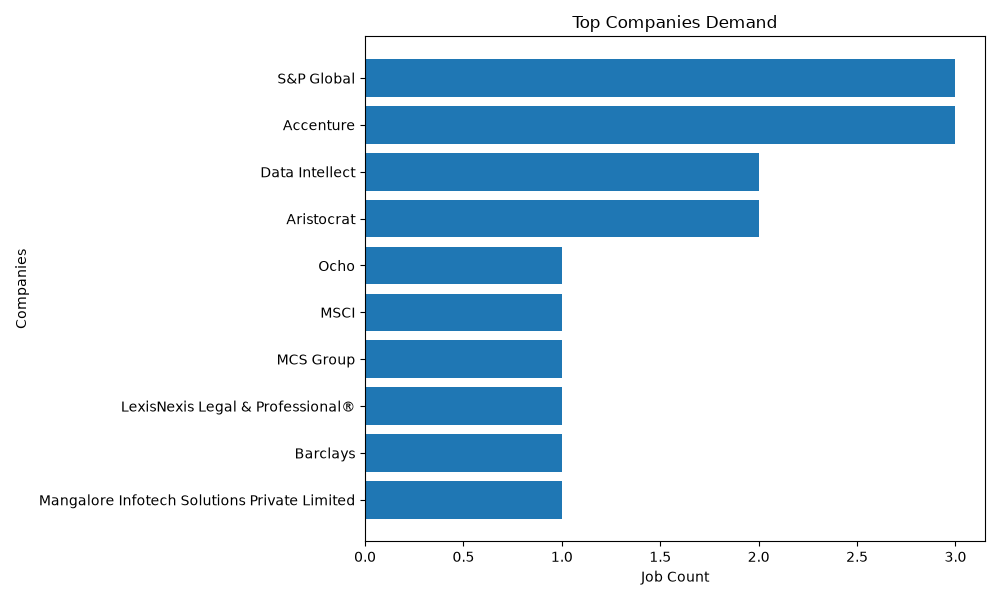
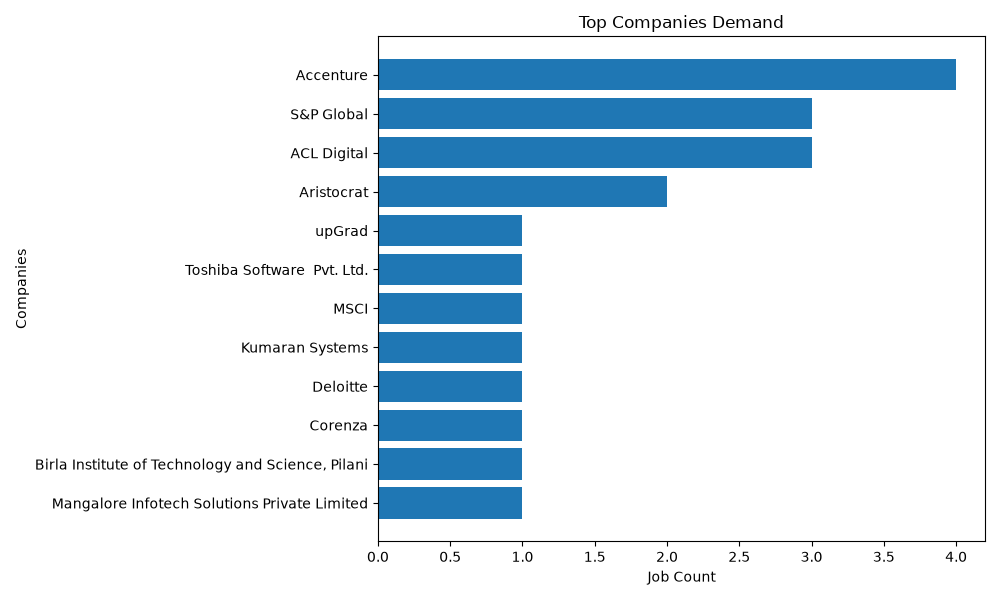
add documentation

diff --git a/src/analysis.py b/src/analysis.py
@@ -2,7 +2,16 @@ import csv
 import os
 
 def get_top_skills(connection):
+    """Retrieves the list of skills ordered by their frequency across jobs.
+
+    Args:
+        connection (sqlite3.Connection): An active database connection.
+
+    Returns:
+        list of tuple: A list of (skill, count) tuples representing skill frequency.
+    """
     cursor = connection.cursor()
+    # Group and count the occurances of each unique skill key
     cursor.execute("""
         SELECT skill, COUNT(*) FROM job_skills
         GROUP BY skill
@@ -13,6 +22,14 @@ def get_top_skills(connection):
     return result
 
 def count_jobs(connection):
+    """Counts the total number of job postings in the database.
+
+    Args:
+        connection (sqlite3.Connection): An active database connection.
+
+    Returns:
+        int: The total count of jobs.
+    """
     cursor = connection.cursor()
     cursor.execute("""
         SELECT COUNT(*)
@@ -23,6 +40,14 @@ def count_jobs(connection):
     return result
 
 def count_unique_skills(connection):
+    """Counts the number of distinct skills extracted across all job postings.
+
+    Args:
+        connection (sqlite3.Connection): An active database connection.
+
+    Returns:
+        int: The total count of unique skills.
+    """
     cursor = connection.cursor()
     cursor.execute("""
         SELECT COUNT(DISTINCT skill)
@@ -33,6 +58,15 @@ def count_unique_skills(connection):
     return result
 
 def get_jobs_by_skill(connection, skill):
+    """Retrieves all jobs that match a specific skill (case-insensitive search).
+
+    Args:
+        connection (sqlite3.Connection): An active database connection.
+        skill (str): The skill keyword to filter by.
+
+    Returns:
+        list of tuple: List of (title, company, location) matching the specified skill.
+    """
     cursor = connection.cursor()
     cursor.execute("""
         SELECT 
@@ -50,6 +84,14 @@ def get_jobs_by_skill(connection, skill):
     return result
 
 def get_top_companies(connection):
+    """Retrieves companies ordered by the number of job postings they have.
+
+    Args:
+        connection (sqlite3.Connection): An active database connection.
+
+    Returns:
+        list of tuple: A list of (company, count) tuples representing company hiring frequency.
+    """
     cursor = connection.cursor()
     cursor.execute("""
         SELECT company, COUNT(*)
@@ -63,12 +105,22 @@ def get_top_companies(connection):
     return result
 
 def export_to_csv(results, filename, header):
+    """Exports structured database query results to a CSV file.
+
+    Args:
+        results (list of tuple): The database rows/results to write.
+        filename (str): Target filename inside the 'results' directory.
+        header (list of str): List of column headers for the CSV file.
+    """
+    # Create the target results directory if it does not exist
     os.makedirs("results", exist_ok=True)
 
     with open(f"results/{filename}", "w", newline="", encoding="utf-8") as file:
         writer = csv.writer(file)
+        # Write column headers first
         writer.writerow(header)
 
+        # Write all data rows
         for row in results:
             writer.writerow(row)
         

diff --git a/src/fetcher.py b/src/fetcher.py
@@ -4,6 +4,19 @@ from dotenv  import load_dotenv
 
 load_dotenv()
 def build_request(keyword, country, results_per_page, page):
+    """Builds the request URL and query parameters for the Adzuna API.
+
+    Args:
+        keyword (str): The keyword to search for in job titles or descriptions.
+        country (str): The 2-letter country code (e.g., 'in').
+        results_per_page (int): The number of job results to return per page.
+        page (int): The page number of the search results to fetch.
+
+    Returns:
+        tuple: A tuple containing:
+            - base_url (str): The constructed API endpoint URL.
+            - query_params (dict): A dictionary of query parameters including API credentials.
+    """
     base_url = f"https://api.adzuna.com/v1/api/jobs/{country}/search/{page}"
     query_params = {
         "app_id" : os.getenv("APP_ID"),
@@ -15,11 +28,31 @@ def build_request(keyword, country, results_per_page, page):
     return base_url, query_params
 
 def send_request(base_url, query_params):
+    """Sends a GET request to the Adzuna API.
+
+    Args:
+        base_url (str): The API endpoint URL.
+        query_params (dict): The query parameters for the API request.
+
+    Returns:
+        requests.Response: The API response object.
+    """
     response = requests.get(url=base_url, params=query_params, timeout=10)
     response.raise_for_status()  
     return response
 
 def validate_response(response):
+    """Validates the API response structure and content.
+
+    Args:
+        response (requests.Response): The API response object to validate.
+
+    Returns:
+        list: A list of job results from the API response.
+
+    Raises:
+        Exception: If the API returned an error or if the 'results' field is missing.
+    """
     data = response.json()
 
     if "error" in data:
@@ -31,6 +64,17 @@ def validate_response(response):
     return data["results"]
 
 def fetch_jobs(keyword, country, results_per_page, page):
+    """Fetches and validates job postings from the Adzuna API.
+
+    Args:
+        keyword (str): The search term/keyword for jobs.
+        country (str): The 2-letter country code.
+        results_per_page (int): The number of job results to return per page.
+        page (int): The page number of search results to fetch.
+
+    Returns:
+        list: A list of validated job dictionaries.
+    """
     base_url, query_params = build_request(keyword, country, results_per_page, page)
     response = send_request(base_url, query_params)
     return validate_response(response)

diff --git a/src/main.py b/src/main.py
@@ -1,14 +1,22 @@
+"""
+Main driver script for the Job Skill Demand Tracker application.
+This script orchestrates the fetching of job data from the Adzuna API, database insertion,
+skill extraction, metrics generation, and exporting of reports.
+"""
+
 from fetcher import fetch_jobs
 from database import connect_database, create_jobs_table ,insert_jobs, get_all_jobs, insert_job_skills,create_job_skills_table
 from skill_extractor import extract_skills
 from analysis import get_top_skills, count_jobs, count_unique_skills, get_jobs_by_skill,get_top_companies, export_to_csv
 from datetime import datetime
 
+# Connect to the SQLite database and initialize required tables
 connection = connect_database()
 create_jobs_table(connection)
 create_job_skills_table(connection)
 
 try:
+    # Fetch job listings matching search parameters
     jobs = fetch_jobs(
     keyword="python",
     country="in",
@@ -19,13 +27,16 @@ except Exception as e:
     print(e)
 
 
+# Bulk insert fetched job postings into the database
 insert_jobs(connection, jobs)
 
+# Extract and store skill keywords found in each job posting's description
 for job in jobs:
     description = job["description"]
     skills = extract_skills(description)
     insert_job_skills(connection, job["id"], skills, datetime.now().strftime("%Y-%m-%d %H:%M:%S"))
 
+# Retrieve all jobs from the database (for inspection/verification)
 all_jobs = get_all_jobs(connection)
 
 # print(get_top_skills(connection))
@@ -34,9 +45,11 @@ all_jobs = get_all_jobs(connection)
 # print(get_jobs_by_skill(connection, "python"))
 # print(get_top_companies(connection))
 
+# Analyze data and write reports
 top_skills = get_top_skills(connection)
 top_companies = get_top_companies(connection)
 export_to_csv(top_skills, "top_skills.csv", ["skill", "job_count"])
 export_to_csv(top_companies, "top_companies.csv", ["company", "job_count"])
 
+# Close connection to release resource locks
 connection.close()

diff --git a/src/visualize.py b/src/visualize.py
@@ -1,48 +1,68 @@
+"""
+Visualization script for the Job Skill Demand Tracker application.
+This script reads compiled CSV report files from the results directory and generates
+horizontal bar charts representing the top skills and hiring companies.
+"""
+
 import pandas as pd
 import matplotlib.pyplot as plt
 
+# --- Chart 1: Top Skills Demand Visualization ---
+
+# Read and sort skills by frequency in descending order
 df = pd.read_csv("results/top_skills.csv")
 df_sorted = df.sort_values(by="job_count", ascending=False)
 
 plt.figure(figsize=(10,6))
 
+# Construct horizontal bar chart
 plt.barh(
     df_sorted["skill"],
     df_sorted["job_count"]
 )
 
+# Set chart labels and titles
 plt.title("Top Skills Demand")
 plt.xlabel("Job Count")
 plt.ylabel("Skills")
 
+# Invert visual axis to place the highest frequency skill at the top of the chart
 plt.gca().invert_yaxis()
 
 plt.tight_layout()
 
+# Export chart image to the results directory
 plt.savefig("results/top_skills.png")
 
 plt.close()
 
 
+# --- Chart 2: Top Hiring Companies Visualization ---
+
+# Read and sort companies by hiring demand in descending order
 company_df = pd.read_csv("results/top_companies.csv")
 company_df_sorted = company_df.sort_values(by="job_count", ascending=False)
 
 
 plt.figure(figsize=(10,6))
 
+# Construct horizontal bar chart for companies
 plt.barh(
     company_df_sorted["company"],
     company_df_sorted["job_count"]
 )
 
+# Set chart labels and titles for companies
 plt.title("Top Companies Demand")
 plt.xlabel("Job Count")
 plt.ylabel("Companies")
 
+# Invert visual axis to place the company with most listings at the top
 plt.gca().invert_yaxis()
 
 plt.tight_layout()
 
+# Export chart image to the results directory
 plt.savefig("results/top_companies.png")
 
 plt.close()

diff --git a/tests/test_validate_response.py b/tests/test_validate_response.py
@@ -2,13 +2,26 @@ from src.fetcher import validate_response
 
 
 class FakeResponse:
+    """A mock implementation of a requests.Response object for unit testing."""
+
     def __init__(self, data):
+        """Initializes FakeResponse with pre-defined response data.
+
+        Args:
+            data (dict): The mock response dictionary to return from json().
+        """
         self.data = data
 
     def json(self):
+        """Mocks the json() method of requests.Response.
+
+        Returns:
+            dict: The mock response data dictionary.
+        """
         return self.data
 
 
+# Mock payload scenarios representing valid, empty, and error responses
 response_data = {
     "results": [
         {
@@ -26,17 +39,19 @@ error = {
 }
 
 
+# Test 1: Validate a standard successful response
 fake_response = FakeResponse(response_data)
-
 print(validate_response(fake_response))
 
+# Test 2: Validate a response that contains an empty results list
 fake_response = FakeResponse(no_result)
-
 print(validate_response(fake_response))
 
+# Test 3: Validate a response containing an error key (expects Exception)
 fake_response = FakeResponse(error)
 
 try:
     print(validate_response(fake_response))
 except Exception as e:
+    # Verify that the correct Exception is thrown and caught
     print(f"Test passed — correctly caught error: {e}")

diff --git a/src/skill_extractor.py b/src/skill_extractor.py
@@ -24,9 +24,18 @@ SKILLS = [
 ]
 
 def extract_skills(description):
+    """Extracts known skills from a job description by matching keywords.
+
+    Args:
+        description (str): The text of the job description to analyze.
+
+    Returns:
+        list: A list of skills found in the job description.
+    """
     extracted_skills = []
     description = description.lower()
 
+    # Search for each pre-defined skill keyword in the lowercased description
     for skill in SKILLS:
         if skill.lower() in description:
             extracted_skills.append(skill)
